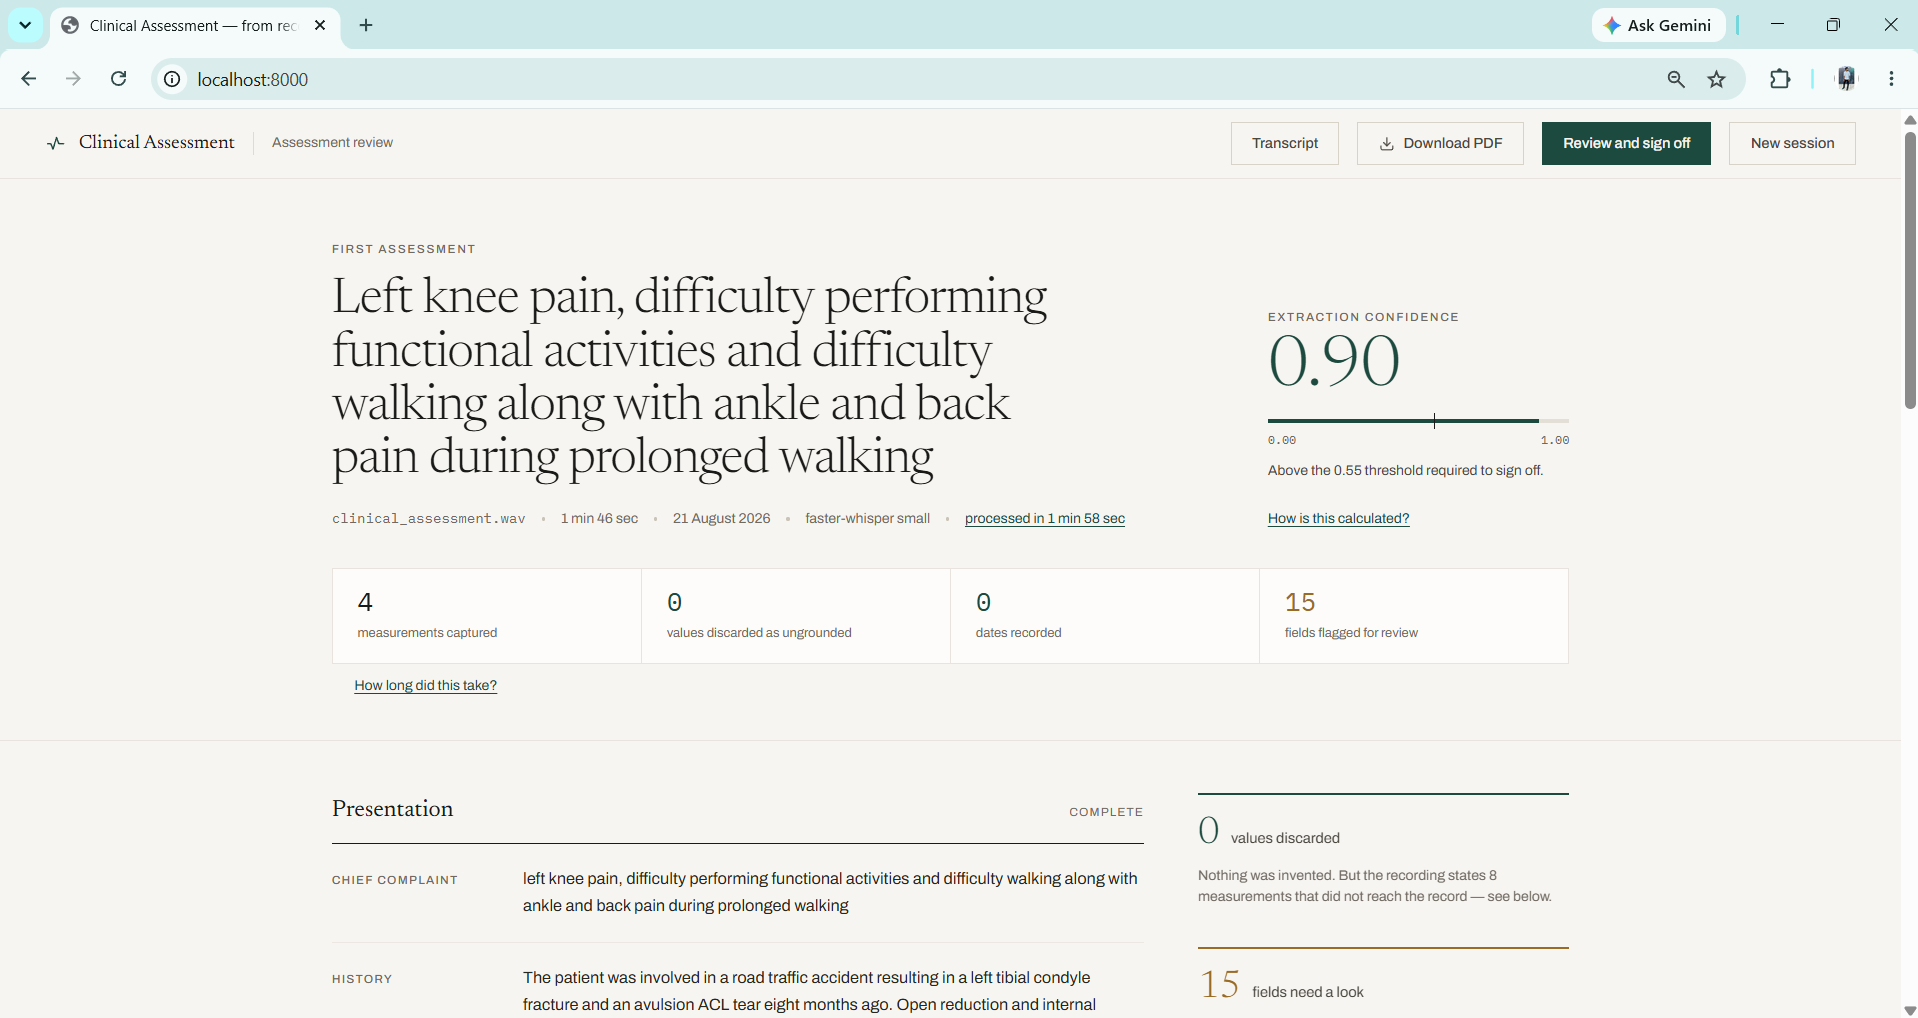
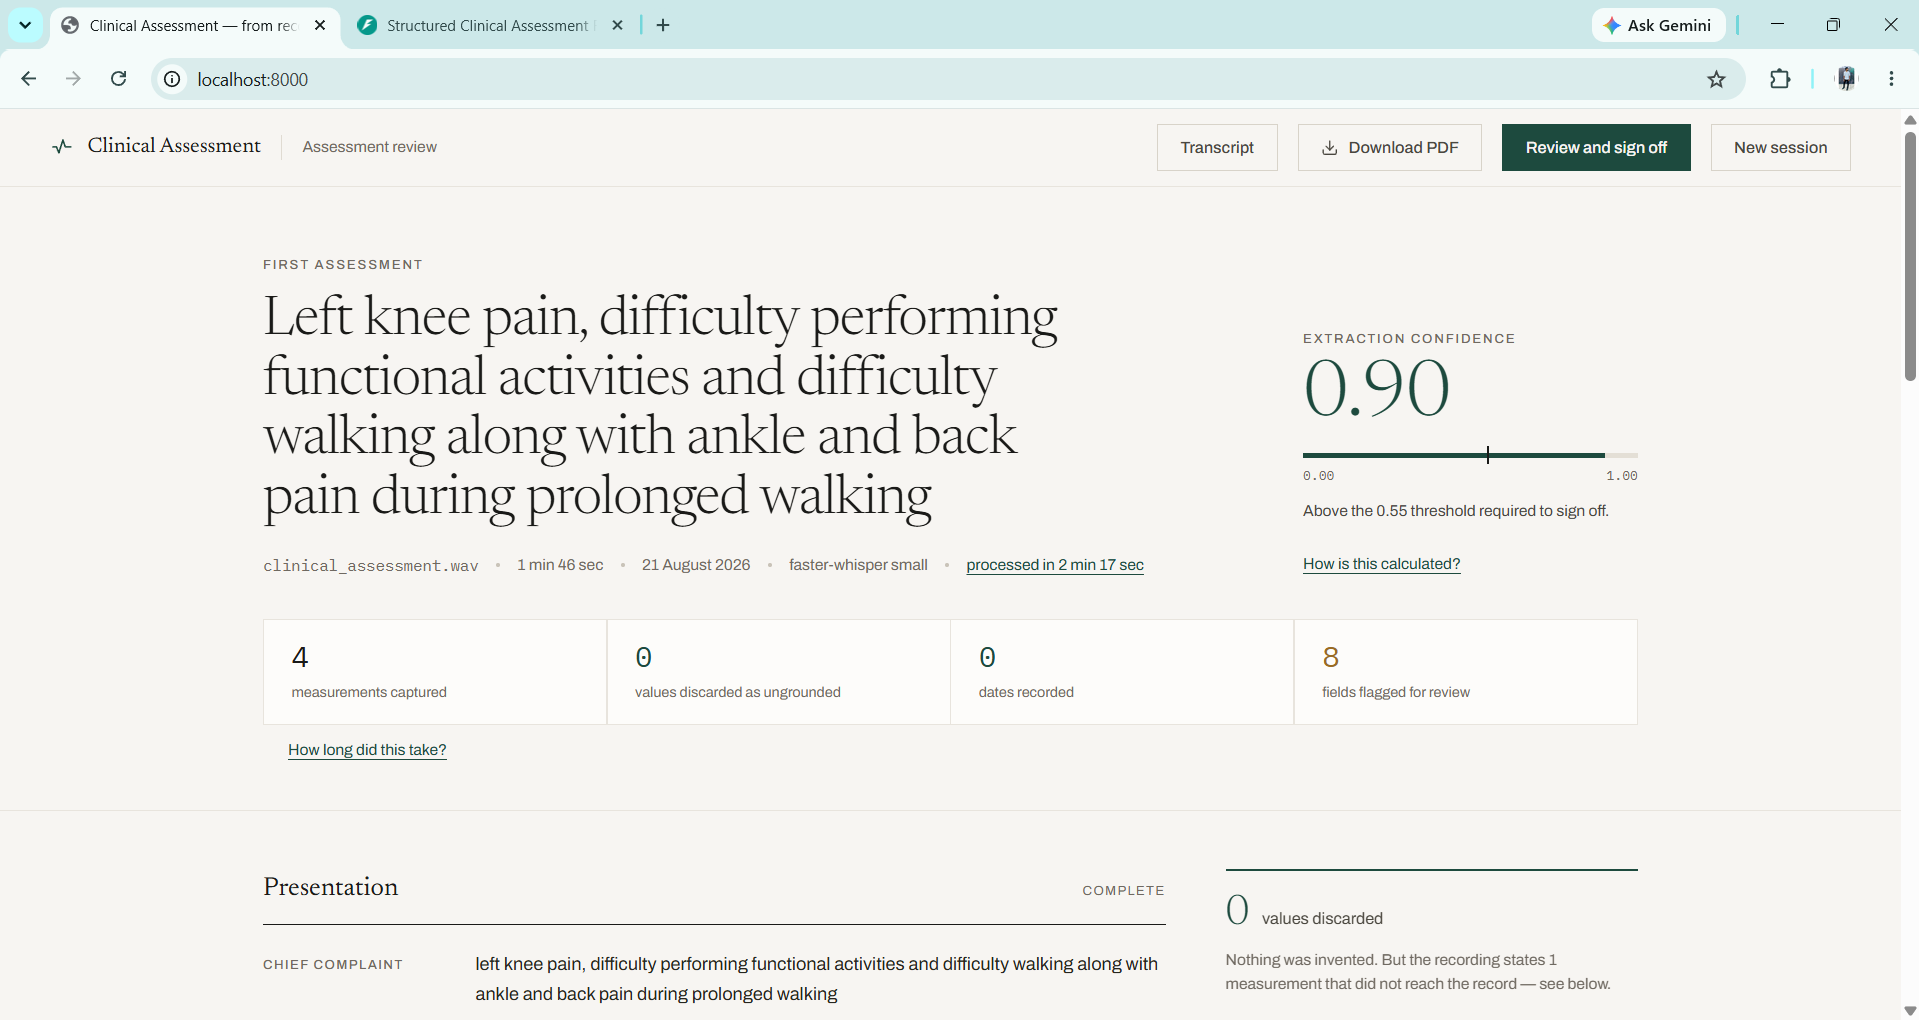
Use all ten screenshots, all from the fixed pipeline
Replaces the three that still showed the pre-fix state. The review screen now
reads eight flagged fields rather than fifteen, and reports the one
measurement that genuinely did not reach the record instead of claiming all
eight were missing.

Adds a tenth: the Swagger response after executing the parse endpoint, showing
the curl invocation, a 200, and the real body. The endpoint page alone shows
what the API accepts; this shows what it returns, which is the part a reviewer
actually wants to see.

Renamed it from "10-swagger result.png" - a space in a filename makes the
markdown link silently fail to render on GitHub.

diff --git a/README.md b/README.md
@@ -567,6 +567,11 @@ fraction of a second against roughly two minutes of inference.
 
 ![Swagger UI](docs/screenshots/09-swagger.png)
 
+The same pipeline driven from `/docs` rather than the interface — upload the
+WAV, execute, and read the response.
+
+![Swagger response](docs/screenshots/10-swagger-response.png)
+
 ### The exported report
 
 [`docs/sample-report.pdf`](docs/sample-report.pdf) — generated by the app's
